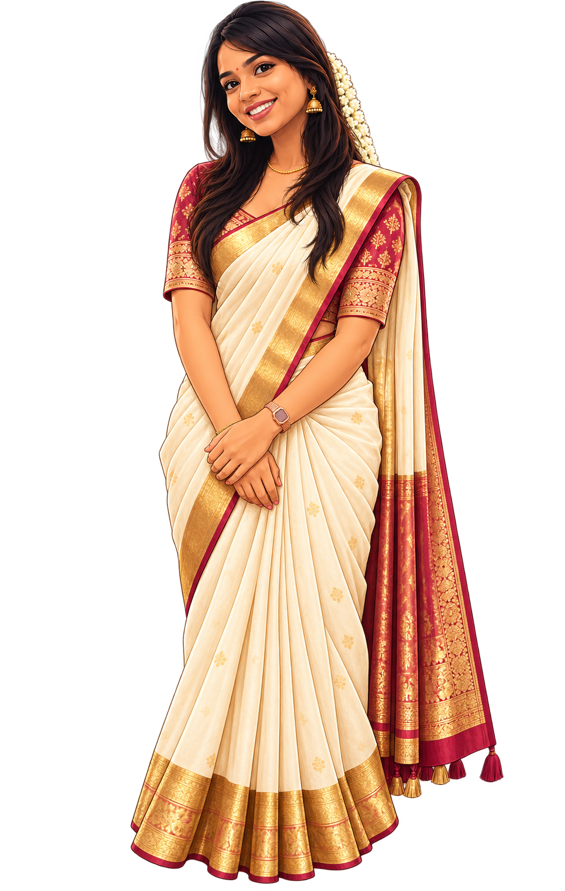
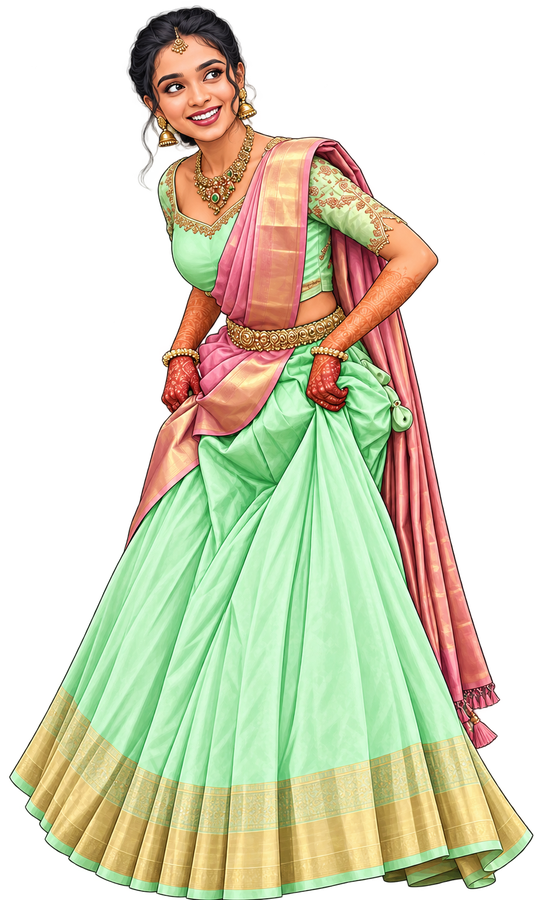
Remove the hero kolam ring and swap in new farewell portraits
Removed .hero-kolam entirely (markup, CSS, and its scroll-tied fade/
pause logic in scroll.js) per request — it wasn't the mobile freeze
cause (already ruled out), just a design change.

Replaced the farewell page's groom/bride portraits with new versions,
cropped to their opaque content and resized to match the existing
pipeline.

diff --git a/index.html b/index.html
@@ -40,32 +40,6 @@
   <canvas class="starfield" id="starfield"></canvas>
   <canvas class="petals petals--main" id="mainPetals"></canvas>
 
-  <!-- a slow-turning kolam — the geometric threshold pattern drawn at South
-       Indian doorways for auspicious occasions — sits behind the invitation
-       as quiet traditional texture, not a copy of any one real kolam, just
-       drawn in that style: a ring of loops strung between dots. -->
-  <svg class="hero-kolam" viewBox="0 0 400 400" aria-hidden="true">
-    <g fill="none" stroke="#F4A77C" stroke-width="1">
-      <g id="kolamMotif">
-        <path d="M200,40 C224,40 240,60 240,84 C240,60 264,52 280,64 C264,64 254,80 260,100 C246,84 224,80 200,88 C176,80 154,84 140,100 C146,80 136,64 120,64 C136,52 160,60 160,84 C160,60 176,40 200,40 Z"/>
-        <circle cx="200" cy="30" r="2.6" fill="#F4A77C" stroke="none"/>
-      </g>
-      <use href="#kolamMotif" transform="rotate(30 200 200)"/>
-      <use href="#kolamMotif" transform="rotate(60 200 200)"/>
-      <use href="#kolamMotif" transform="rotate(90 200 200)"/>
-      <use href="#kolamMotif" transform="rotate(120 200 200)"/>
-      <use href="#kolamMotif" transform="rotate(150 200 200)"/>
-      <use href="#kolamMotif" transform="rotate(180 200 200)"/>
-      <use href="#kolamMotif" transform="rotate(210 200 200)"/>
-      <use href="#kolamMotif" transform="rotate(240 200 200)"/>
-      <use href="#kolamMotif" transform="rotate(270 200 200)"/>
-      <use href="#kolamMotif" transform="rotate(300 200 200)"/>
-      <use href="#kolamMotif" transform="rotate(330 200 200)"/>
-      <circle cx="200" cy="200" r="150" stroke-width=".6" opacity=".6"/>
-      <circle cx="200" cy="200" r="188" stroke-width=".6" opacity=".4"/>
-    </g>
-  </svg>
-
   <!-- the invitation: first thing you see on load -->
   <div class="hero-mark" id="heroMark">
     <div class="hero-mark__type">
@@ -189,13 +163,13 @@
         <p class="farewell__bubble">
           <span class="farewell__bubble-main" lang="ta">இனிமேல் நாங்க ரெண்டு பேரும்… ❤</span>
         </p>
-        <img class="farewell__portrait" src="assets/groom-portrait.png" alt="" loading="lazy" width="521" height="900">
+        <img class="farewell__portrait" src="assets/groom-portrait.png" alt="" loading="lazy" width="554" height="900">
       </div>
       <div class="farewell__figure" id="brideFigure">
         <p class="farewell__bubble">
           <span class="farewell__bubble-main" lang="ta">ஒரே டீம்! 🥰</span>
         </p>
-        <img class="farewell__portrait" src="assets/bride-portrait.png" alt="" loading="lazy" width="565" height="891">
+        <img class="farewell__portrait" src="assets/bride-portrait.png" alt="" loading="lazy" width="535" height="900">
       </div>
     </div>
     <p class="tx02">With all our love,<br>Akash &amp; Iswaryalakshmi</p>

diff --git a/js/scroll.js b/js/scroll.js
@@ -113,24 +113,6 @@
       { opacity: 1, scale: 1 },
       { opacity: 0, scale: 0.96, duration: 0.025, ease: 'none' });
 
-    /* the kolam ring belongs to the hero moment only — it's `position:
-       fixed` so it would otherwise stay on screen behind every act after
-       this (orbs, the white reveal, even the farewell page). Fade it out
-       in lockstep with the hero names and it never reappears. Its own
-       CSS animation (a continuous 220s rotation) keeps recalculating
-       transform every frame regardless of opacity, so pause it outright
-       once the fade-out finishes — an ongoing cost for the rest of the
-       visit otherwise — and resume it if the visitor scrolls back up
-       past this point. */
-    var heroKolamEl = q('.hero-kolam');
-    actOne.fromTo('.hero-kolam',
-      { opacity: .16 },
-      {
-        opacity: 0, duration: 0.025, ease: 'none',
-        onComplete: function () { if (heroKolamEl) heroKolamEl.style.animationPlayState = 'paused'; },
-        onReverseComplete: function () { if (heroKolamEl) heroKolamEl.style.animationPlayState = 'running'; }
-      }, '<');
-
     actOne.fromTo('.expand',
       { left: '9.8%', scale: 0, opacity: 1 },
       { left: '48%', scale: 3, opacity: 1, duration: 0.1, ease: 'power2.out' }, '<')
@@ -254,7 +236,7 @@
     return function () {
       ringSpin.kill();
       gsap.set('.expand, .expand__box, .expand__ring, .expand__core, .expand__core-fill, .expand__dots, .expand__text', { clearProps: 'all' });
-      gsap.set('.orb, .spheres, .spheres__box, .act-text, .act-text .tx02, .hero-mark__type, .hero-kolam', { clearProps: 'all' });
+      gsap.set('.orb, .spheres, .spheres__box, .act-text, .act-text .tx02, .hero-mark__type', { clearProps: 'all' });
       gsap.set('.film, .film__white, .film__blur, .film__rings, .film__ring, .film__disc, .film__copy, .film__txt .tx02', { clearProps: 'all' });
       gsap.set('#groomFigure, #brideFigure, .farewell__bubble, .farewell__copy .tx02', { clearProps: 'all' });
     };

diff --git a/css/main.css b/css/main.css
@@ -38,21 +38,6 @@
   text-align: center;
   color: #fff;
 }
-.hero-kolam {
-  position: fixed;
-  top: 50%; left: 50%;
-  width: min(150vh, 165vw, 1200px);
-  height: min(150vh, 165vw, 1200px);
-  transform: translate(-50%, -50%);
-  z-index: 5;
-  opacity: .16;
-  pointer-events: none;
-  animation: kolamTurn 220s linear infinite;
-}
-@keyframes kolamTurn { to { transform: translate(-50%, -50%) rotate(360deg); } }
-@media (prefers-reduced-motion: reduce) {
-  .hero-kolam { animation: none; }
-}
 .hero-mark__bow {
   width: clamp(48px, 5.4vw, 66px);
   height: auto;

diff --git a/README.md b/README.md
@@ -21,14 +21,11 @@ their climb each one dissolves into a small burst of starlight. Tradition becomi
 literally: the wedding's own marigolds and the site's cosmic language fused into one
 motif instead of sitting side by side.
 
-Traditional South Indian Hindu wedding motifs run through every section, researched
-rather than guessed at (mandala/kolam symbolism, marigold and mango-leaf thoranam
-garlands as the standard florals — see Sources below): an ornamental bow (ceremonial
-rather than devotional) opens the invitation, a kolam-style ring (the geometric
-threshold pattern drawn at South Indian doorways) turns slowly behind the couple's
-names - and only there, fading out with the names as you scroll past so it never bleeds
-into later sections. All original SVG line art in the same gold-and-warm palette as the
-petals, not any copied template.
+Traditional South Indian Hindu wedding motifs run through the site, researched rather
+than guessed at (marigold and mango-leaf thoranam garlands as the standard florals —
+see Sources below): an ornamental bow (ceremonial rather than devotional) opens the
+invitation. All original SVG line art in the same gold-and-warm palette as the petals,
+not any copied template.
 
 ## Run it
 
